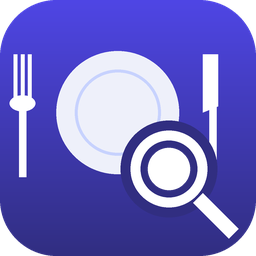
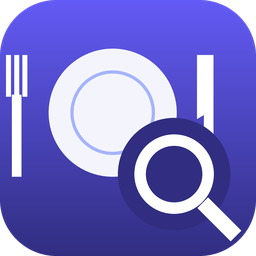
아이콘 뿌옇게 보이는 문제 수정
- 원인: ICO 저장 시 가장 작은 이미지를 기준으로 삼아 16x16 한 장만
  담겨, Windows가 이를 확대 표시하며 흐릿하게 보였음
- 큰 크기부터(256~16) 각 크기를 네이티브 렌더링해 7개 전부 ICO에 포함
- 작은 크기(≤32px)는 획을 굵게·요소를 키워 또렷하게 보이도록 조정
- 생성 후 포함 크기를 검증 출력

diff --git a/make_icon.py b/make_icon.py
@@ -3,6 +3,9 @@
 앱 아이콘(app.ico) 생성 스크립트.
 NexaERP 대시보드 톤(인디고)에 맞춘 '접시+포크/나이프+돋보기(검색)' 아이콘.
 
+각 크기를 개별 렌더링하여 ICO에 담고, 작은 크기에서는 획을 굵게·요소를
+단순화해 또렷하게 보이도록 한다.
+
 실행: python make_icon.py  →  app.ico 생성
 """
 from pathlib import Path
@@ -11,21 +14,16 @@ from PIL import Image, ImageDraw
 
 OUT = Path(__file__).with_name("app.ico")
 
-# 팔레트 (GUI와 동일 계열)
-INDIGO_TOP = (79, 70, 229)     # #4F46E5
+INDIGO_TOP = (99, 91, 245)     # 약간 밝게
 INDIGO_BOT = (49, 46, 129)     # #312E81
-WHITE = (255, 255, 255)
-PLATE = (238, 240, 250)        # 접시(밝은 회백)
-PLATE_RING = (199, 210, 254)   # 접시 테두리
+PLATE = (244, 245, 252)
+PLATE_RING = (165, 180, 252)
 CUTLERY = (255, 255, 255)
-LENS_GLASS = (255, 255, 255)
-LENS_RING = (255, 255, 255)
 
-SS = 4  # 슈퍼샘플링 배율 (안티에일리어싱)
+SS = 8  # 슈퍼샘플링 배율
 
 
 def rounded_rect_gradient(size, radius):
-    """인디고 세로 그라데이션 + 둥근 모서리 배경"""
     grad = Image.new("RGB", (1, size), INDIGO_TOP)
     for y in range(size):
         t = y / max(1, size - 1)
@@ -35,81 +33,85 @@ def rounded_rect_gradient(size, radius):
     grad = grad.resize((size, size))
 
     mask = Image.new("L", (size, size), 0)
-    md = ImageDraw.Draw(mask)
-    md.rounded_rectangle([0, 0, size - 1, size - 1], radius=radius, fill=255)
-
+    ImageDraw.Draw(mask).rounded_rectangle(
+        [0, 0, size - 1, size - 1], radius=radius, fill=255
+    )
     out = Image.new("RGBA", (size, size), (0, 0, 0, 0))
     out.paste(grad, (0, 0), mask)
     return out
 
 
 def draw_icon(px):
-    """px 크기의 아이콘 한 장 생성"""
+    """px 크기의 아이콘 한 장을 SS배 슈퍼샘플링으로 렌더링 후 축소."""
+    small = px <= 32  # 작은 크기는 단순·굵게
     S = px * SS
     img = rounded_rect_gradient(S, radius=int(S * 0.22))
     d = ImageDraw.Draw(img)
 
-    cx, cy = S * 0.46, S * 0.44
-    R = S * 0.24  # 접시 반지름
+    # 작은 크기는 접시를 키우고 돋보기를 크게, 포크 살은 굵게
+    cx, cy = S * 0.44, (S * 0.46 if small else S * 0.44)
+    R = S * (0.30 if small else 0.25)
 
     # 접시
     d.ellipse([cx - R, cy - R, cx + R, cy + R], fill=PLATE)
+    ring_w = max(2, int(S * (0.018 if small else 0.013)))
     d.ellipse(
-        [cx - R * 0.7, cy - R * 0.7, cx + R * 0.7, cy + R * 0.7],
-        outline=PLATE_RING, width=max(2, int(S * 0.012)),
+        [cx - R * 0.66, cy - R * 0.66, cx + R * 0.66, cy + R * 0.66],
+        outline=PLATE_RING, width=ring_w,
     )
 
-    # 포크 (접시 왼쪽)
-    fx = cx - R * 1.55
-    ftop, fbot = cy - R * 0.95, cy + R * 1.05
-    tine_w = max(2, int(S * 0.016))
-    for dx in (-S * 0.028, 0, S * 0.028):
-        d.line([(fx + dx, ftop), (fx + dx, cy - R * 0.15)], fill=CUTLERY, width=tine_w)
-    # 포크 목/자루
-    d.line([(fx, cy - R * 0.15), (fx, fbot)], fill=CUTLERY, width=max(3, int(S * 0.03)))
-    d.ellipse(
-        [fx - S * 0.05, cy - R * 0.28, fx + S * 0.05, cy - R * 0.02],
-        fill=CUTLERY,
-    )
+    # 포크 (왼쪽)
+    fx = cx - R * 1.5
+    ftop, fbot = cy - R * 0.9, cy + R * 1.0
+    tine_w = max(3, int(S * (0.03 if small else 0.02)))
+    stem_w = max(4, int(S * (0.055 if small else 0.038)))
+    tine_gap = S * (0.045 if small else 0.032)
+    for dx in (-tine_gap, 0, tine_gap):
+        d.line([(fx + dx, ftop), (fx + dx, cy - R * 0.25)], fill=CUTLERY, width=tine_w)
+    d.line([(fx, cy - R * 0.28), (fx, fbot)], fill=CUTLERY, width=stem_w)
 
-    # 나이프 (접시 오른쪽)
-    kx = cx + R * 1.55
-    d.line([(kx, cy - R * 0.95), (kx, fbot)], fill=CUTLERY, width=max(3, int(S * 0.03)))
+    # 나이프 (오른쪽)
+    kx = cx + R * 1.5
+    d.line([(kx, cy - R * 0.9), (kx, fbot)], fill=CUTLERY, width=stem_w)
+    blade_w = S * (0.055 if small else 0.045)
     d.polygon(
-        [
-            (kx - S * 0.04, cy - R * 0.95),
-            (kx + S * 0.02, cy - R * 0.95),
-            (kx + S * 0.02, cy - R * 0.1),
-            (kx - S * 0.04, cy),
-        ],
+        [(kx - blade_w, cy - R * 0.9), (kx + blade_w * 0.4, cy - R * 0.9),
+         (kx + blade_w * 0.4, cy - R * 0.05), (kx - blade_w, cy + R * 0.1)],
         fill=CUTLERY,
     )
 
-    # 돋보기(검색) — 우하단, 접시 위에 겹침
-    lx, ly = S * 0.66, S * 0.66
-    lr = S * 0.15
-    ring_w = max(3, int(S * 0.04))
-    # 렌즈 배경(인디고 원)으로 대비
-    d.ellipse([lx - lr - ring_w, ly - lr - ring_w, lx + lr + ring_w, ly + lr + ring_w],
-              fill=INDIGO_BOT)
-    d.ellipse([lx - lr, ly - lr, lx + lr, ly + lr], outline=LENS_RING, width=ring_w)
-    d.ellipse([lx - lr * 0.55, ly - lr * 0.55, lx + lr * 0.55, ly + lr * 0.55],
-              fill=(255, 255, 255, 60))
+    # 돋보기(검색) — 우하단
+    lx, ly = S * 0.68, S * 0.68
+    lr = S * (0.19 if small else 0.155)
+    lens_ring = max(4, int(S * (0.06 if small else 0.045)))
+    # 인디고 배경 원으로 대비 확보
+    pad = lens_ring + int(S * 0.02)
+    d.ellipse([lx - lr - pad, ly - lr - pad, lx + lr + pad, ly + lr + pad], fill=INDIGO_BOT)
+    d.ellipse([lx - lr, ly - lr, lx + lr, ly + lr], outline=CUTLERY, width=lens_ring)
     # 손잡이
-    hx, hy = lx + lr * 0.75, ly + lr * 0.75
-    d.line([(hx, hy), (hx + S * 0.14, hy + S * 0.14)], fill=LENS_RING,
-           width=max(4, int(S * 0.055)))
+    hx, hy = lx + lr * 0.72, ly + lr * 0.72
+    hlen = S * (0.15 if small else 0.13)
+    d.line([(hx, hy), (hx + hlen, hy + hlen)], fill=CUTLERY,
+           width=max(5, int(S * (0.075 if small else 0.06))))
 
     return img.resize((px, px), Image.LANCZOS)
 
 
 def main():
-    sizes = [16, 24, 32, 48, 64, 128, 256]
+    sizes = [256, 128, 64, 48, 32, 24, 16]  # 큰 것부터
     imgs = [draw_icon(s) for s in sizes]
-    imgs[0].save(OUT, format="ICO", sizes=[(s, s) for s in sizes], append_images=imgs[1:])
-    print(f"아이콘 생성 완료: {OUT}  (크기: {sizes})")
+    # 가장 큰 이미지를 기준으로, 나머지는 네이티브 렌더를 그대로 첨부
+    imgs[0].save(
+        OUT, format="ICO",
+        sizes=[(s, s) for s in sizes],
+        append_images=imgs[1:],
+    )
+    print(f"아이콘 생성 완료: {OUT}")
 
-    # 미리보기 PNG도 함께 저장
+    # 검증: 실제로 모든 크기가 담겼는지 확인
+    chk = Image.open(OUT)
+    print("ICO 포함 크기:", sorted(chk.info.get("sizes", []), reverse=True))
+
     draw_icon(256).save(OUT.with_name("app_preview.png"))
 
 
